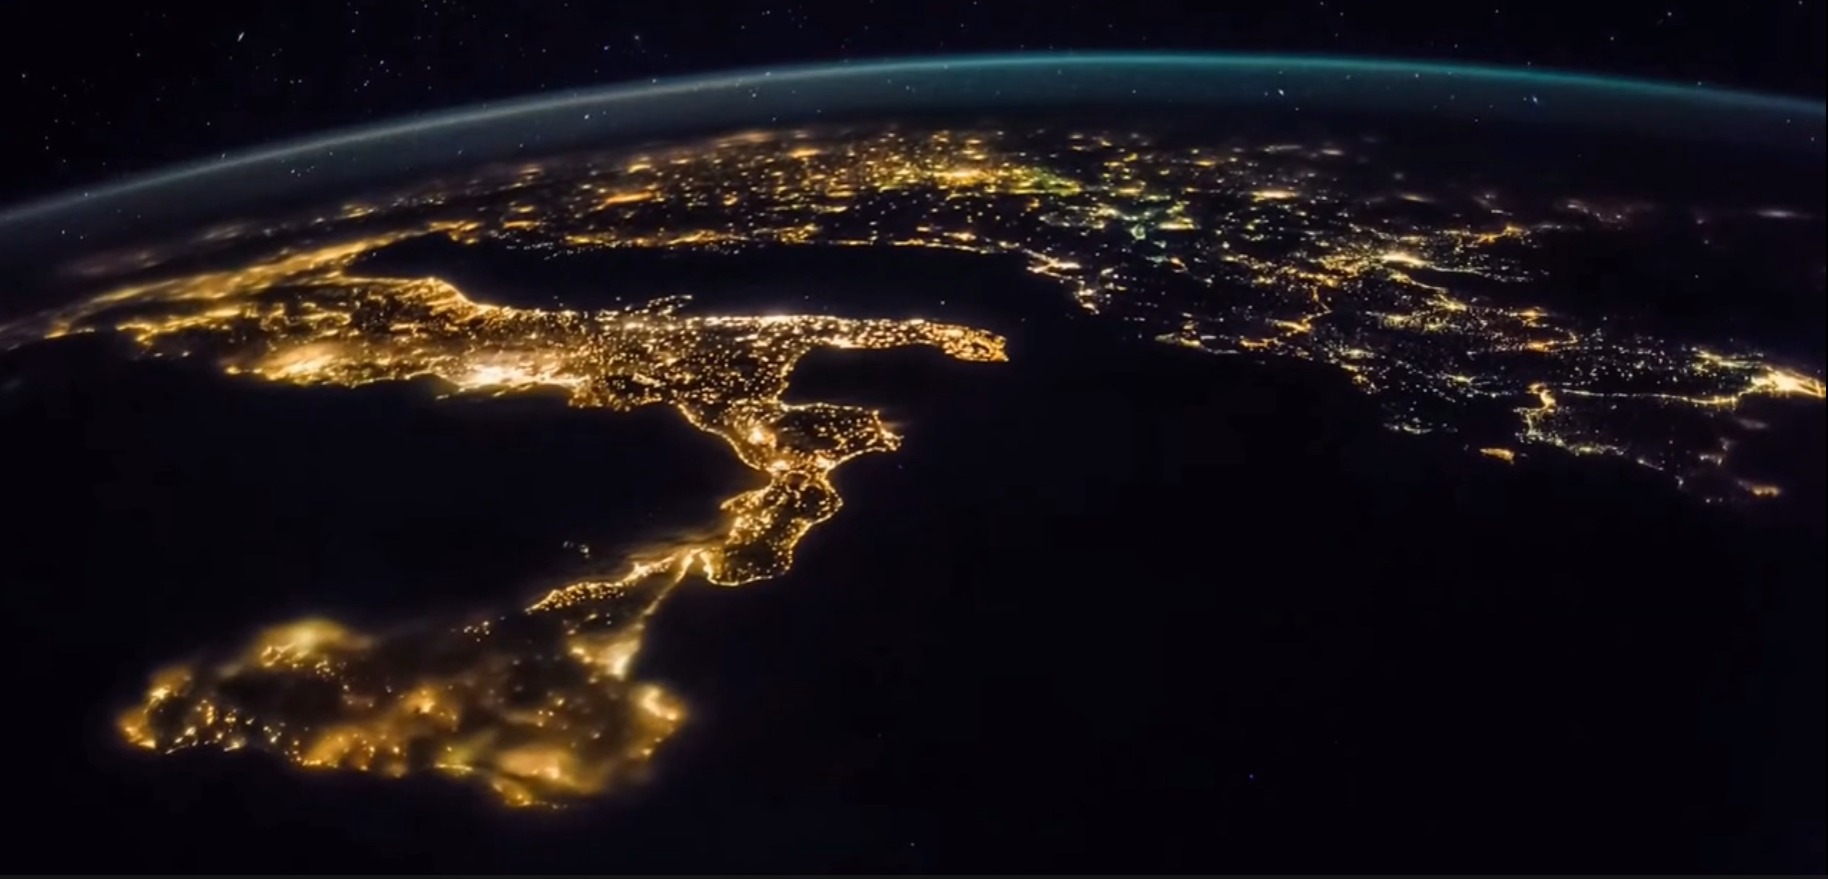
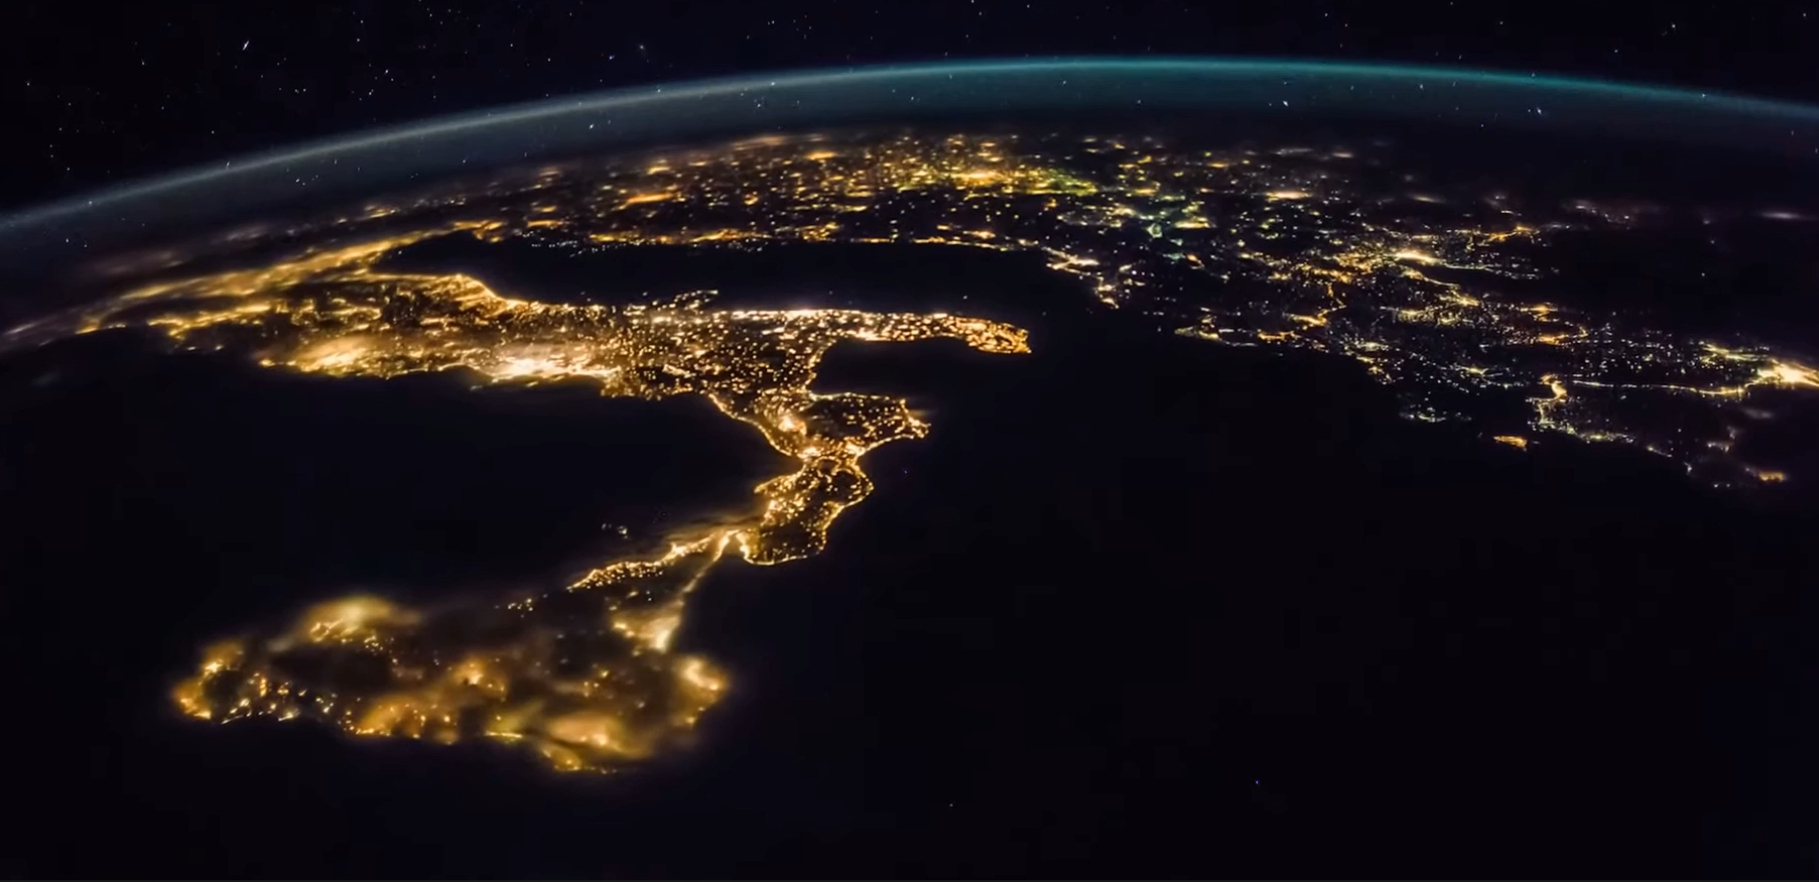
poster mainvideobg add

diff --git a/index.html b/index.html
@@ -94,7 +94,7 @@ https://templatemo.com/tm-548-training-studio
 
     <!-- ***** Main Banner Area Start ***** -->
     <div class="main-banner" id="top">
-        <video id="bg-video" controls loop >
+        <video id="bg-video" controls loop poster="assets/images/bgmainvideo.png" >
             <source src="assets/images/gym-videocanva.mp4" type="video/mp4" />
         </video>
         
